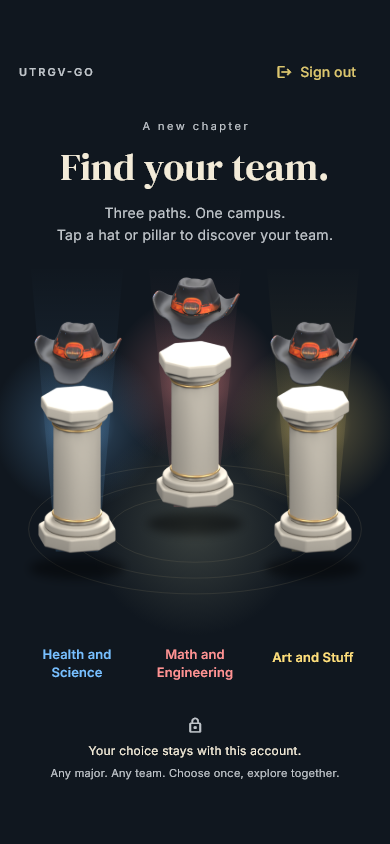
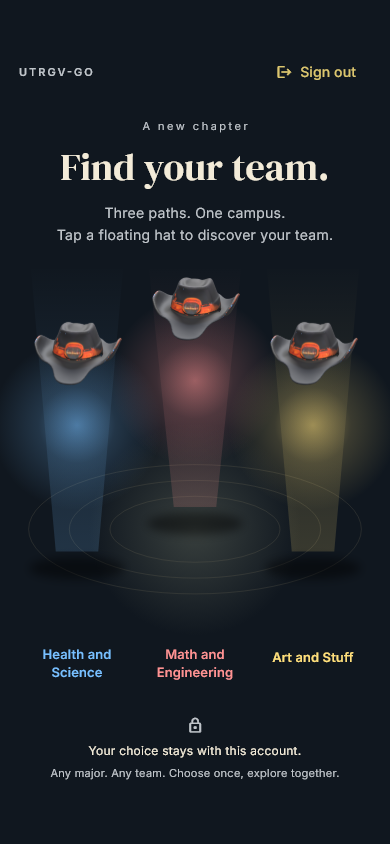
Remove team selection pillars and leave hats floating

diff --git a/lib/teams/team_selection_game.dart b/lib/teams/team_selection_game.dart
@@ -14,7 +14,7 @@ class TeamSelectionGame extends FlameGame {
         false; // The Flutter host combines app/dialog visibility.
   }
   final VoidCallback? onAssetError;
-  ui.Image? _hat, _pedestal;
+  ui.Image? _hat;
   double _time = 0;
   bool reducedMotion = false;
 
@@ -22,7 +22,6 @@ class TeamSelectionGame extends FlameGame {
   Future<void> onLoad() async {
     try {
       _hat = await images.load('cowboy-hat.png');
-      _pedestal = await images.load('pedestal.png');
     } catch (_) {
       onAssetError?.call();
       rethrow;
@@ -114,25 +113,6 @@ class TeamSelectionGame extends FlameGame {
           ..color = Colors.black.withValues(alpha: .45)
           ..maskFilter = const MaskFilter.blur(BlurStyle.normal, 5),
       );
-      if (_pedestal case final pedestal?) {
-        final target = Rect.fromLTWH(
-          x - w * .15,
-          base - h * .55,
-          w * .3,
-          h * .55,
-        );
-        canvas.drawImageRect(
-          pedestal,
-          Rect.fromLTWH(
-            0,
-            0,
-            pedestal.width.toDouble(),
-            pedestal.height.toDouble(),
-          ),
-          target,
-          Paint()..filterQuality = FilterQuality.medium,
-        );
-      }
       final bob = reducedMotion ? 0.0 : math.sin(_time * 1.2 + i) * h * .006;
       if (_hat case final hat?) {
         final target = Rect.fromLTWH(

diff --git a/lib/teams/team_selection_screen.dart b/lib/teams/team_selection_screen.dart
@@ -189,7 +189,7 @@ class _TeamSelectionScreenState extends State<TeamSelectionScreen>
                             ),
                             const SizedBox(height: 14),
                             const Text(
-                              'Three paths. One campus.\nTap a hat or pillar to discover your team.',
+                              'Three paths. One campus.\nTap a floating hat to discover your team.',
                               textAlign: TextAlign.center,
                               style: TextStyle(
                                 color: _muted,

diff --git a/test/team_onboarding_test.dart b/test/team_onboarding_test.dart
@@ -72,7 +72,7 @@ void main() {
   }
 
   testWidgets(
-    'all pillars show info; cancel and system back never save or bypass',
+    'all hats show info; cancel and system back never save or bypass',
     (tester) async {
       final repo = MemoryTeams();
       await open(tester, repo);

diff --git a/docs/team-onboarding.md b/docs/team-onboarding.md
@@ -3,6 +3,12 @@
 Implemented on `codex/team-onboarding`; **owner visual review pending**. No main
 integration until review. Existing map/cowboy/chapel source is retained.
 
+Owner revision: removed the three pillars from the scene. The original shared
+hat sprites now float above the colored lights; hat positions, selection controls
+and permanent-membership behavior are unchanged. The pedestal export is retained
+as historical asset material but is no longer loaded or rendered. Updated widget
+captures were inspected; analysis and all eight onboarding widget tests passed.
+
 ## Experience and code
 
 After a real Supabase session is established, `AuthGate` mounts an account-keyed
@@ -151,3 +157,5 @@ References read: [Supabase RLS](https://supabase.com/docs/guides/database/postgr
 and [FlameGame](https://docs.flame-engine.org/latest/flame/game.html). The Flame
 guide identifies itself as older documentation; lifecycle, asset loading,
 disposal and GameWidget behavior were checked against installed 1.38.2 source.
+
+Floating-hat revision preview: installed version code **16016** on the same AVD with matching signing, retained session and byte-for-byte APK verification (SHA-256 e5ec2197d5c3369cdb7df5ce3aafbb8696880656e1f114c2087f7a9e896cf419). Native capture updated; no team was selected.
